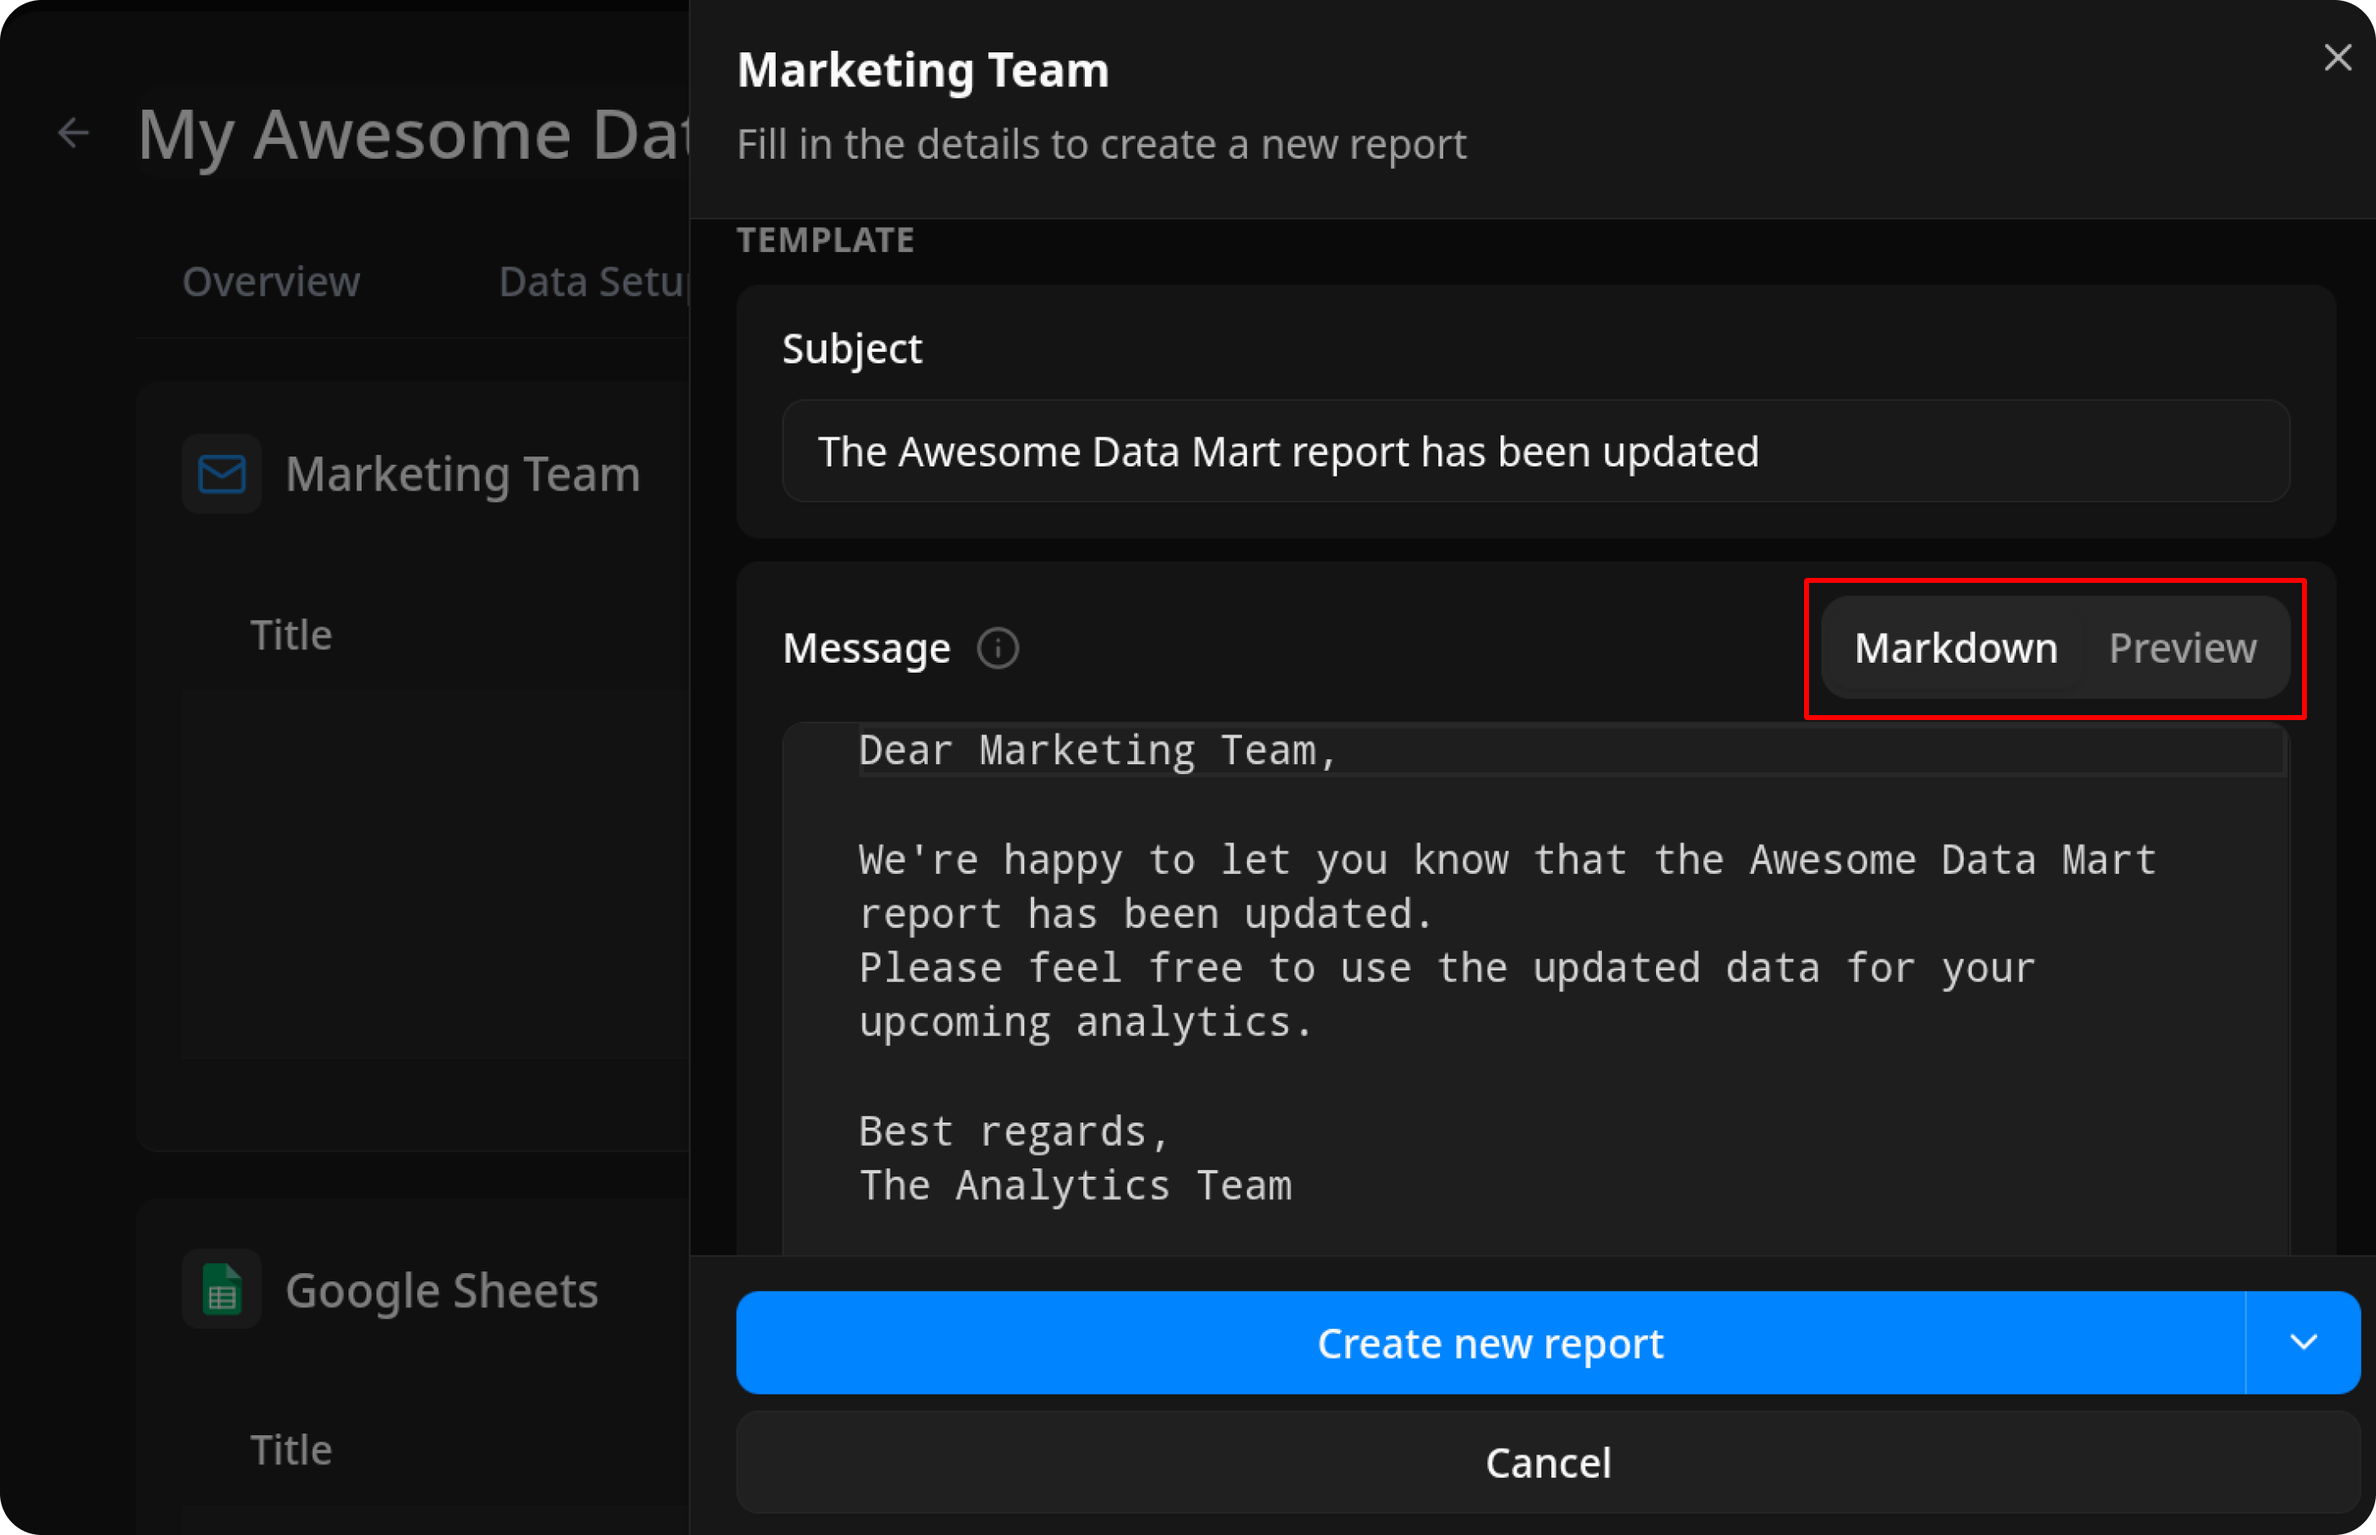
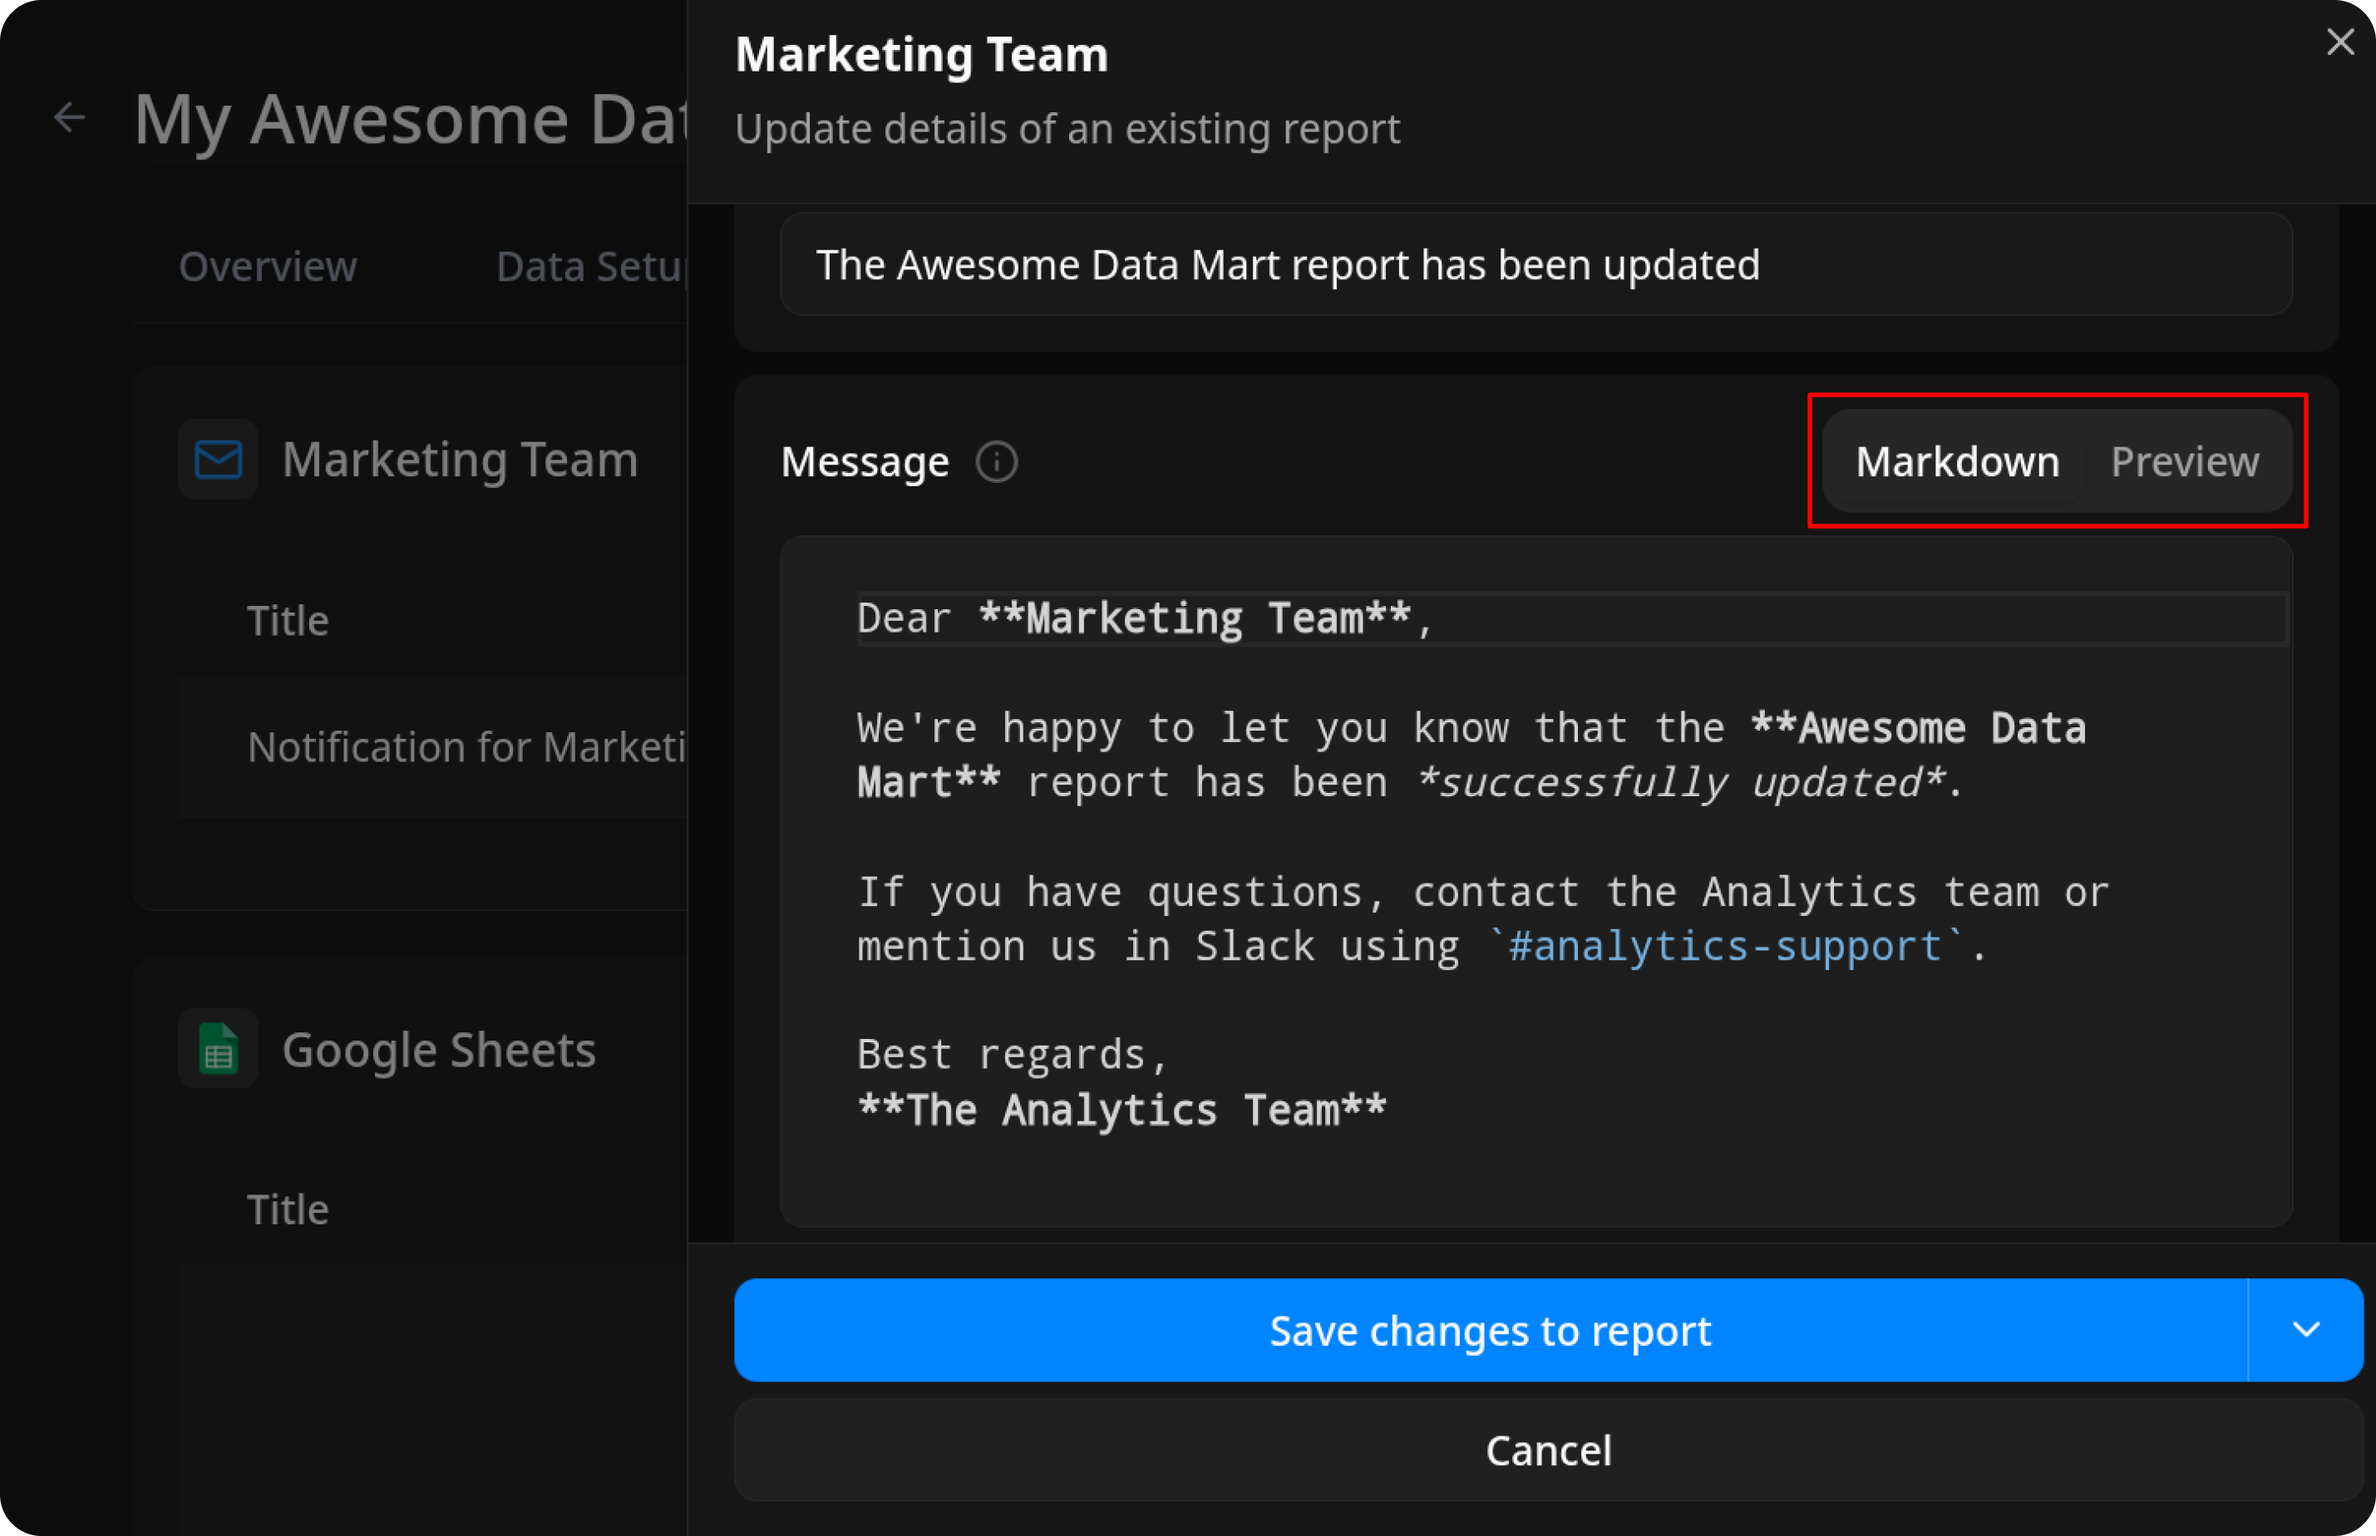
feat(docs): update email destination instructions and add new report creation steps

diff --git a/docs/destinations/supported-destinations/email.md b/docs/destinations/supported-destinations/email.md
@@ -68,7 +68,7 @@ You can also view and copy the list of report recipients.
 Add a **Subject** and write the **Message** using Markdown.  
 Switch to **Preview** to check how the email will appear to recipients.
 
-![OWOX Data Marts interface showing a report creation dialog for Marketing Team with a TEMPLATE section containing two fields: Subject field displays The Awesome Data Mart report has been updated, and below is a Message field with Markdown and Preview tabs in the top right corner outlined in red. The message text reads: Dear Marketing Team, We're happy to let you know that the Awesome Data Mart report has been updated. Please feel free to use the updated data for your upcoming analytics. Best regards, The Analytics Team](res/email_message.png)
+![OWOX Data Marts interface showing a report creation dialog for Marketing Team with a TEMPLATE section containing two fields: Subject field displays The Awesome Data Mart report has been updated, and below is a Message field with Markdown and Preview tabs in the top right corner outlined in red. The message text reads: Dear Marketing Team, We're happy to let you know that the Awesome Data Mart report has been updated. If you have questions, contact the Analytics team or mention us in Slack using analytics-support. Best regards, The Analytics Team](res/email_message.png)
 
 #### 2.5. Set sending conditions
 
@@ -82,13 +82,7 @@ OWOX automatically runs the Data Mart before sending the report and checks the r
 
 ![OWOX Data Marts dialog showing the SENDING CONDITIONS section with Data Mart Run results displayed at the top in a red-bordered box. Below, a dropdown menu labeled Send always is expanded, revealing three options: Send always (selected with a checkmark), Send only when result is empty, and Send only when result is not empty. A red arrow points from the label to the dropdown](res/email_sendingconditions.png)
 
-#### 2.6. Save the report
-
-Click **Create New Report** to apply the report settings. If you want to run the report immediately, click **Create & Run report** instead.
-
-![OWOX Data Marts dialog showing the Marketing Team report creation interface. Below are sending conditions with Data Mart Run results and a Send always dropdown. At the bottom, a blue Create new report button is outlined in red with an upward arrow icon, and to its right is a Create & Run report option with a red arrow pointing to it. A Cancel button appears at the bottom](res/email_createandrun.png)
-
-#### 2.7. (Optional) Scheduling
+#### 2.6. (Optional) Scheduling
 
 To run this report automatically on a schedule (for example, every 5 minutes or every Monday and Wednesday at 3:00 PM), create a new trigger in the **Automate Report Runs** section.  
 
@@ -97,6 +91,12 @@ To run this report automatically on a schedule (for example, every 5 minutes or 
 You can also add the trigger later in the **Triggers** tab of your Data Mart.
 
 ![OWOX Data Marts interface showing the Triggers tab selected with a red border at the top navigation. The page displays a Time triggers section with a calendar icon and a red arrow pointing to the Add Trigger button with a plus icon on the right. Below is a table with columns for Trigger Type, Run Target, Schedule, Next Run, and Last Run. One row shows Report Run type linked to Notification for Marketing Team, scheduled Daily at 09:00 America/New_York timezone, with Next Run in 22 hours and Last Run showing Never run. Navigation buttons Previous and Next appear at the bottom](res/email_triggers.png)
+
+#### 2.7. Create the report
+
+Click **Create New Report** to apply the report settings. If you want to run the report immediately, click **Create & Run report** instead.
+
+![OWOX Data Marts dialog showing the Marketing Team report creation interface. Below are sending conditions with Data Mart Run results and a Send always dropdown. At the bottom, a blue Create new report button is outlined in red with an upward arrow icon, and to its right is a Create & Run report option with a red arrow pointing to it. A Cancel button appears at the bottom](res/email_createandrun.png)
 
 ---
 
